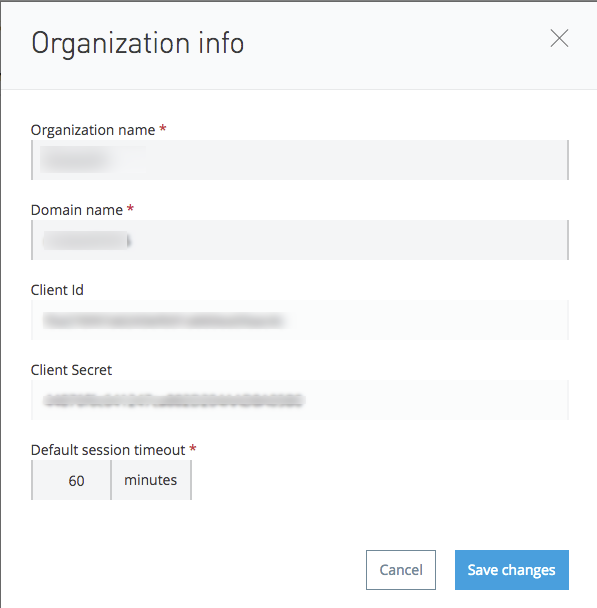
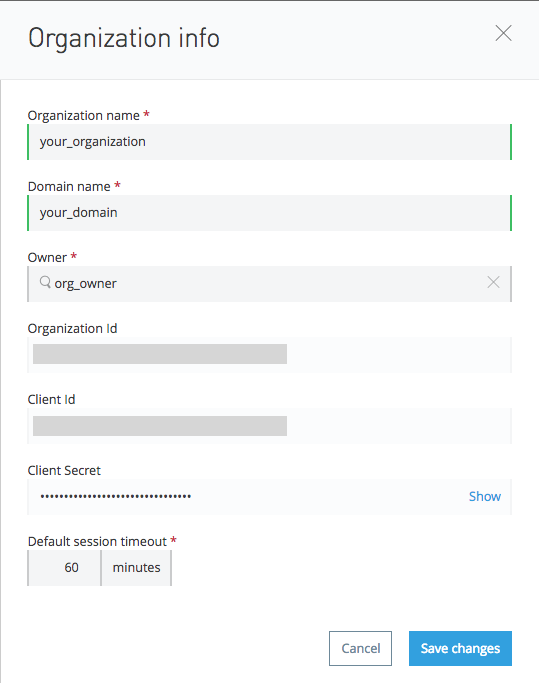
jenkins-docs-prod-4296

diff --git a/access-management/organization.html b/access-management/organization.html
@@ -1203,6 +1203,17 @@
  </div> 
 </div> 
 <div class="sect1"> 
+ <h2 id="the-organization-owner"><a class="anchor" href="#the-organization-owner"></a>The Organization Owner</h2> 
+ <div class="sectionbody"> 
+  <div class="paragraph"> 
+   <p>The user who first signs up for the Anypoint Platform organization is known as the <strong>Organization Owner</strong>. This is not a role but an identifier for this single user, who inherits the Organization Administrator role by default.</p> 
+  </div> 
+  <div class="paragraph"> 
+   <p>When the Organization Owner creates a business-group, it must assign a user as the owner of it. This user holds an Administrator role within that business group by default.</p> 
+  </div> 
+ </div> 
+</div> 
+<div class="sect1"> 
  <h2 id="organization-settings"><a class="anchor" href="#organization-settings"></a>Organization Settings</h2> 
  <div class="sectionbody"> 
   <div class="paragraph"> 
@@ -1266,7 +1277,7 @@
     <p><em>Organization Admin Only</em></p> 
    </div> 
    <div class="paragraph"> 
-    <p>An organization administrator can modify the an organization’s domain and the session timeout for its users. Access this menu by clicking Organization in the left menu, then selecting the organization name you want to modify.</p> 
+    <p>An organization administrator can modify the an organization’s domain and the session timeout for its users. Access this menu by clicking Organization in the left menu, then selecting the organization name you want to modify. You can also change the Organization Owner if necessary.</p> 
    </div> 
    <div class="imageblock"> 
     <div class="content"> 
@@ -1276,18 +1287,18 @@
    <div class="paragraph"> 
     <p>Although multiple organizations can be created by different users using the same company name, each organization must have a unique domain. You can also view your organization’s client ID and client secret. These values apply to the master organization and grant permissions for all of the&nbsp;business groups contained within.</p> 
    </div> 
+   <div class="paragraph"> 
+    <p>You can also set a default timeout for owners of accounts in this organization. This requires a user to re-login after a period of inactivity.</p> 
+   </div> 
    <div class="admonitionblock note"> 
     <table> 
      <tbody> 
       <tr> 
        <td class="icon"> <i class="fa icon-note" title="Note"></i> </td> 
-       <td class="content"> Business groups&nbsp;also have their own client ID and client secret. You can use these if you are not an organization administrator. </td> 
+       <td class="content"> Business groups&nbsp;also have their own client ID and client secret. You can use these to access assets within an organization if you are not an organization administrator. </td> 
       </tr> 
      </tbody> 
     </table> 
-   </div> 
-   <div class="paragraph"> 
-    <p>You can also set a default timeout for owners of accounts in this organization. This requires a user to re-login after a period of inactivity.</p> 
    </div> 
   </div> 
  </div> 
@@ -1417,7 +1428,7 @@
     <!-- END article-content -->
     <!-- scroll-menu --><div class="col-md-2 scroll-menu-container" data-swiftype-index='false'><div class="scroll-menu">
                 <h4>In this topic:</h4>
-                <ul><li><a class="scroll-menu-link" href="#organization-settings">Organization Settings</a></li><li><a class="scroll-menu-link" href="#sharing-resources-in-an-organization">Sharing Resources in an Organization</a></li><li><a class="scroll-menu-link" href="#exchange-settings">Exchange Settings</a></li><li><a class="scroll-menu-link" href="#business-groups">Business Groups</a></li></ul></div></div><!-- /scroll-menu -->
+                <ul><li><a class="scroll-menu-link" href="#the-organization-owner">The Organization Owner</a></li><li><a class="scroll-menu-link" href="#organization-settings">Organization Settings</a></li><li><a class="scroll-menu-link" href="#sharing-resources-in-an-organization">Sharing Resources in an Organization</a></li><li><a class="scroll-menu-link" href="#exchange-settings">Exchange Settings</a></li><li><a class="scroll-menu-link" href="#business-groups">Business Groups</a></li></ul></div></div><!-- /scroll-menu -->
   </div>
 </div>
 <!-- START footer -->

diff --git a/access-management/roles.html b/access-management/roles.html
@@ -1199,17 +1199,6 @@
  </div> 
 </div> 
 <div class="sect1"> 
- <h2 id="the-organization-owner"><a class="anchor" href="#the-organization-owner"></a>The Organization Owner</h2> 
- <div class="sectionbody"> 
-  <div class="paragraph"> 
-   <p>The user who first signs up for the Anypoint Platform organization is known as the <strong>Organization Owner</strong>. This is not a role but an identifier for this single user, who inherits the Organization Administrator role by default.</p> 
-  </div> 
-  <div class="paragraph"> 
-   <p>When the Organization Owner creates a business-group, it must assign a user as the owner of it. This user holds an Administrator role within that business group by default.</p> 
-  </div> 
- </div> 
-</div> 
-<div class="sect1"> 
  <h2 id="default-roles"><a class="anchor" href="#default-roles"></a>Default Roles</h2> 
  <div class="sectionbody"> 
   <div class="paragraph"> 
@@ -1512,7 +1501,7 @@
     <!-- END article-content -->
     <!-- scroll-menu --><div class="col-md-2 scroll-menu-container" data-swiftype-index='false'><div class="scroll-menu">
                 <h4>In this topic:</h4>
-                <ul><li><a class="scroll-menu-link" href="#the-organization-owner">The Organization Owner</a></li><li><a class="scroll-menu-link" href="#default-roles">Default Roles</a></li><li><a class="scroll-menu-link" href="#custom-roles">Custom Roles</a></li><li><a class="scroll-menu-link" href="#role-mapping">Role Mapping</a></li><li><a class="scroll-menu-link" href="#see-also">See Also</a></li></ul></div></div><!-- /scroll-menu -->
+                <ul><li><a class="scroll-menu-link" href="#default-roles">Default Roles</a></li><li><a class="scroll-menu-link" href="#custom-roles">Custom Roles</a></li><li><a class="scroll-menu-link" href="#role-mapping">Role Mapping</a></li><li><a class="scroll-menu-link" href="#see-also">See Also</a></li></ul></div></div><!-- /scroll-menu -->
   </div>
 </div>
 <!-- START footer -->
